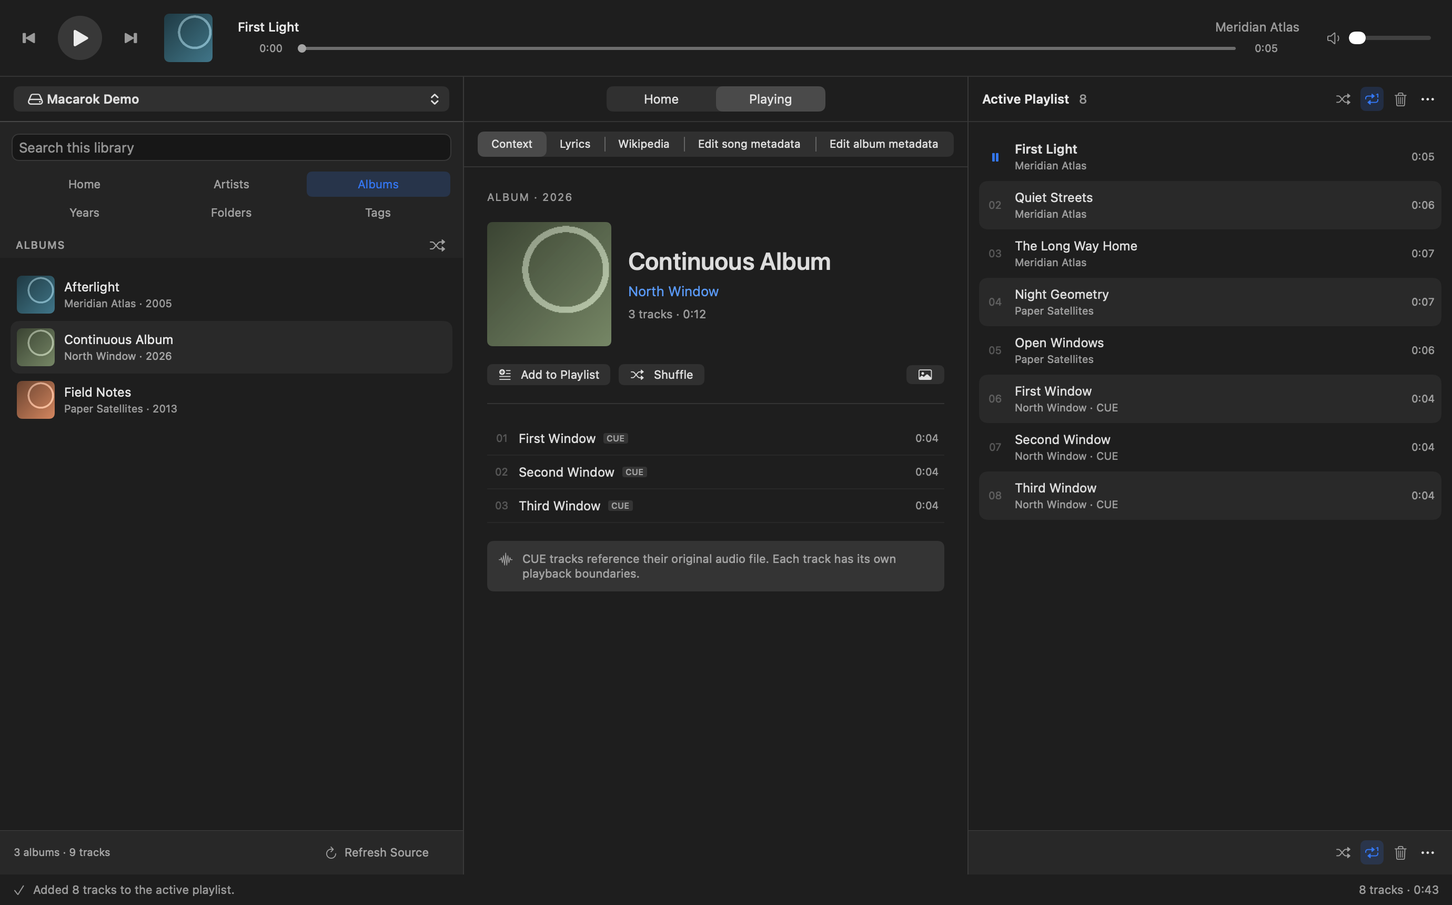
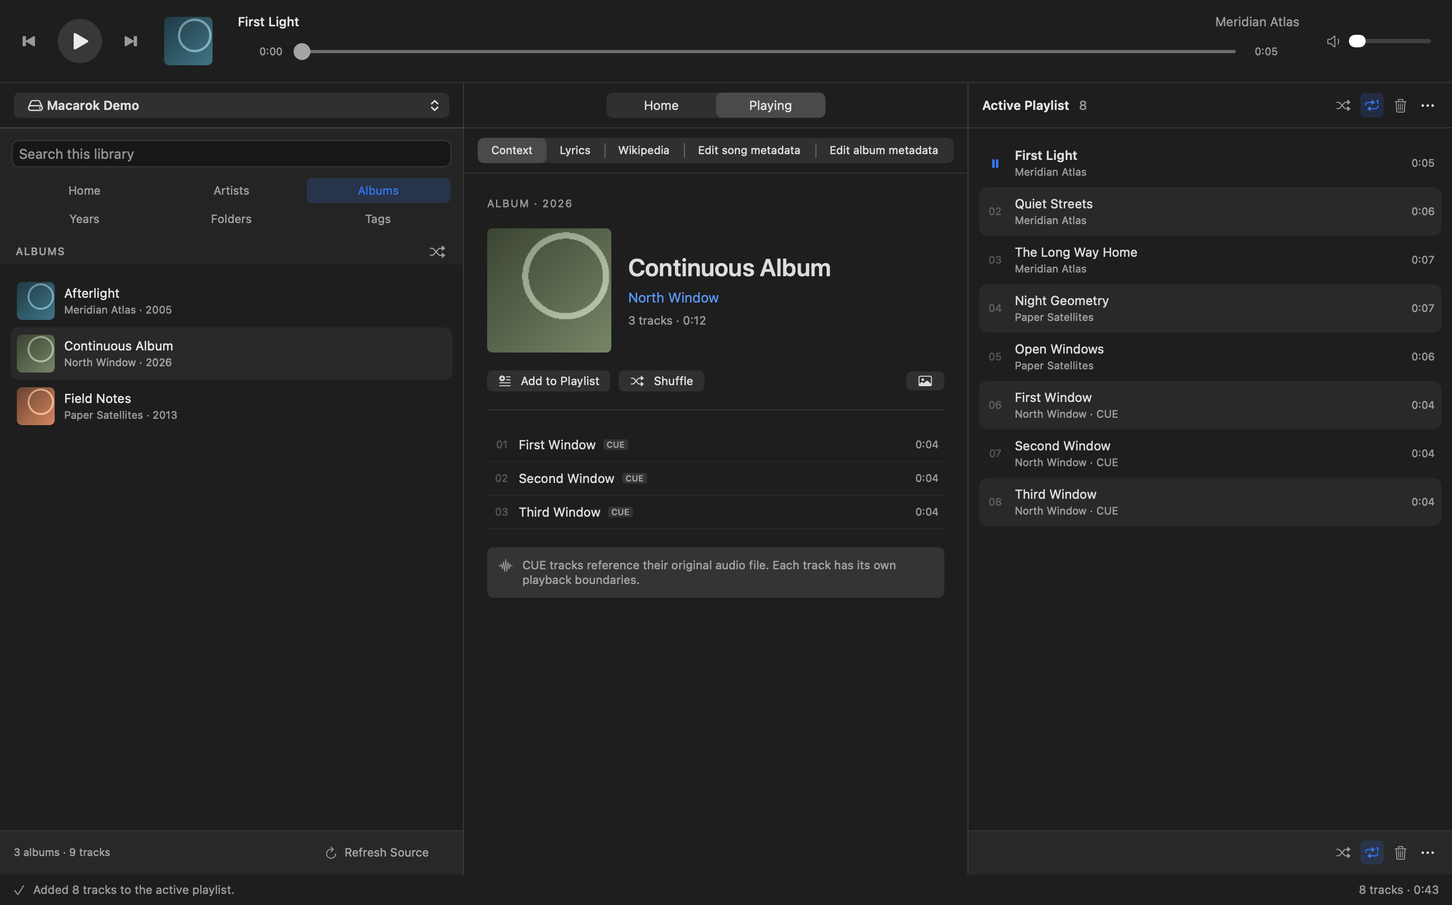
Use a 16-point timeline thumb with a 32-point input area

diff --git a/Tests/MacarokAppTests/PlaybackTimelineRoutingTests.swift b/Tests/MacarokAppTests/PlaybackTimelineRoutingTests.swift
@@ -1,0 +1,212 @@
+import AppKit
+import MacarokCore
+import SwiftUI
+import XCTest
+@testable import MacarokApp
+
+/// Resolves native event receivers through the real SwiftUI transport hierarchy, without choosing
+/// TimelineSlider directly or forcing enabled state. Hidden NSWindows suppress sendEvent dispatch.
+@MainActor
+final class PlaybackTimelineRoutingTests: XCTestCase {
+    func testFullTransportRoutesClicksAndBothDragDirectionsForDecodedLocalAndStreamAudio() async throws {
+        _ = NSApplication.shared
+        for backend in [Backend.local, .stream] {
+            let fixture = try Fixture(backend: backend)
+            defer { fixture.stop() }
+            try await eventually { fixture.model.player.state == .playing && fixture.model.player.isSeekable }
+            for paused in [false, true] {
+                if paused {
+                    fixture.model.pausePlayback()
+                    try await eventually { fixture.model.player.state == .paused }
+                }
+                for scheme in [ColorScheme.light, .dark] {
+                    let host = Host(model: fixture.model, scheme: scheme)
+                    defer { host.close() }
+                    try await host.settle()
+                    let slider = try XCTUnwrap(findSlider(in: host.hosting))
+                    XCTAssertTrue(fixture.model.player.isSeekable)
+                    XCTAssertTrue(slider.isEnabled, "The full view must derive enabled state from a decoded, seekable engine.")
+                    XCTAssertEqual(slider.bounds.height, 32, accuracy: 0.01)
+                    for fraction in [CGFloat(0.1), 0.5, 0.9] {
+                        for verticalOffset in [CGFloat(-15), 0, 15] {
+                            try host.assertRouted(to: slider, at: NSPoint(x: slider.playbackTrackRect.minX + slider.playbackTrackRect.width * fraction,
+                                                                        y: slider.playbackTrackRect.midY + verticalOffset))
+                        }
+                    }
+
+                    let revision = fixture.model.player.timeline.seekRevision
+                    try host.click(slider, fraction: 0.25, verticalOffset: 15)
+                    try await host.settle()
+                    XCTAssertGreaterThan(fixture.model.player.timeline.seekRevision, revision,
+                                         "A routed bar click must reach the real PlaybackSeekInteraction and engine seek callback.")
+                    XCTAssertEqual(fixture.model.player.position, 22.5, accuracy: 1)
+                    try host.drag(slider, to: 0.75, verticalOffset: -15)
+                    try await host.settle()
+                    XCTAssertEqual(fixture.model.player.position, 67.5, accuracy: 1)
+                    try host.drag(slider, to: 0.1, verticalOffset: 15)
+                    try await host.settle()
+                    XCTAssertEqual(fixture.model.player.position, 9, accuracy: 1)
+                    if paused { XCTAssertEqual(fixture.model.player.state, .paused) }
+                    XCTAssertFalse(host.window.isVisible)
+                }
+            }
+        }
+    }
+
+    func testFullTransportKeepsUnseekableStreamDisabledWithoutCommittingAClick() async throws {
+        _ = NSApplication.shared
+        let fixture = try Fixture(backend: .unseekableStream)
+        defer { fixture.stop() }
+        try await eventually { fixture.model.player.state == .playing && fixture.model.player.duration > 0 }
+        let host = Host(model: fixture.model, scheme: .dark)
+        defer { host.close() }
+        try await host.settle()
+        let slider = try XCTUnwrap(findSlider(in: host.hosting))
+        XCTAssertFalse(fixture.model.player.isSeekable)
+        XCTAssertFalse(slider.isEnabled)
+        let revision = fixture.model.player.timeline.seekRevision
+        try host.click(slider, fraction: 0.75, verticalOffset: 0)
+        try await host.settle()
+        XCTAssertEqual(fixture.model.player.timeline.seekRevision, revision)
+        XCTAssertLessThan(fixture.model.player.position, 10)
+    }
+
+    private func findSlider(in view: NSView) -> TimelineSlider? {
+        if let slider = view as? TimelineSlider, slider.accessibilityIdentifier() == "playbackTimeline" { return slider }
+        return view.subviews.lazy.compactMap { self.findSlider(in: $0) }.first
+    }
+
+    private func eventually(_ condition: () -> Bool) async throws {
+        for _ in 0..<600 {
+            if condition() { return }
+            try await Task.sleep(for: .milliseconds(20))
+        }
+        throw Failure.timeout
+    }
+
+    private enum Backend { case local, stream, unseekableStream }
+    private enum Failure: Error { case timeout, hit(String) }
+
+    @MainActor
+    private final class Host {
+        let hosting: NSHostingView<AnyView>
+        let window: NSWindow
+        private var eventTime = ProcessInfo.processInfo.systemUptime
+
+        init(model: AppModel, scheme: ColorScheme) {
+            hosting = NSHostingView(rootView: AnyView(TransportBar(model: model, player: model.player)
+                .frame(width: 1200, height: 90).environment(\.colorScheme, scheme)))
+            hosting.sizingOptions = []
+            hosting.frame = NSRect(x: 0, y: 0, width: 1200, height: 90)
+            window = NSWindow(contentRect: hosting.bounds, styleMask: [.borderless], backing: .buffered, defer: false)
+            window.isReleasedWhenClosed = false
+            window.appearance = NSAppearance(named: scheme == .light ? .aqua : .darkAqua)
+            window.contentView = hosting
+        }
+
+        func close() { window.contentView = nil; window.close() }
+
+        func settle() async throws {
+            for _ in 0..<12 {
+                hosting.layoutSubtreeIfNeeded()
+                await Task.yield()
+                try await Task.sleep(for: .milliseconds(10))
+            }
+        }
+
+        @discardableResult
+        func assertRouted(to slider: TimelineSlider, at point: NSPoint) throws -> NSView {
+            let windowPoint = slider.convert(point, to: nil)
+            let parentPoint = hosting.superview?.convert(windowPoint, from: nil) ?? windowPoint
+            let hit = hosting.hitTest(parentPoint)
+            guard let hit, hit === slider || hit.isDescendant(of: slider) else {
+                throw Failure.hit("Transport hit \(hit.map { String(reflecting: type(of: $0)) } ?? "nil") instead of timeline at \(point); slider frame \(slider.frame), bounds \(slider.bounds), enabled \(slider.isEnabled)")
+            }
+            return hit
+        }
+
+        func click(_ slider: TimelineSlider, fraction: CGFloat, verticalOffset: CGFloat) throws {
+            eventTime = ProcessInfo.processInfo.systemUptime
+            let point = NSPoint(x: slider.playbackTrackRect.minX + slider.playbackTrackRect.width * fraction,
+                                y: slider.playbackTrackRect.midY + verticalOffset)
+            let receiver = try assertRouted(to: slider, at: point)
+            let down = try event(.leftMouseDown, slider: slider, point: point, number: 1)
+            let up = try event(.leftMouseUp, slider: slider, point: point, number: 2)
+            if slider.isEnabled {
+                window.postEvent(up, atStart: false)
+                receiver.mouseDown(with: down)
+            } else {
+                receiver.mouseDown(with: down); receiver.mouseUp(with: up)
+            }
+            drainMouseEvents()
+        }
+
+        func drag(_ slider: TimelineSlider, to fraction: CGFloat, verticalOffset: CGFloat) throws {
+            eventTime = ProcessInfo.processInfo.systemUptime
+            let start = NSPoint(x: slider.playbackThumbRect.midX, y: slider.playbackThumbRect.midY)
+            let end = NSPoint(x: slider.playbackTrackRect.minX + slider.playbackTrackRect.width * fraction,
+                              y: slider.playbackTrackRect.midY + verticalOffset)
+            let receiver = try assertRouted(to: slider, at: start)
+            try assertRouted(to: slider, at: end)
+            let middle = NSPoint(x: (start.x + end.x) / 2, y: slider.playbackTrackRect.midY)
+            window.postEvent(try event(.leftMouseDragged, slider: slider, point: middle, number: 2), atStart: false)
+            window.postEvent(try event(.leftMouseUp, slider: slider, point: end, number: 3), atStart: false)
+            receiver.mouseDown(with: try event(.leftMouseDown, slider: slider, point: start, number: 1))
+            drainMouseEvents()
+        }
+
+        private func event(_ type: NSEvent.EventType, slider: TimelineSlider, point: NSPoint, number: Int) throws -> NSEvent {
+            try XCTUnwrap(NSEvent.mouseEvent(with: type, location: slider.convert(point, to: nil), modifierFlags: [],
+                timestamp: eventTime + Double(number) / 1000, windowNumber: window.windowNumber, context: nil, eventNumber: number,
+                clickCount: 1, pressure: type == .leftMouseUp ? 0 : 1))
+        }
+
+        private func drainMouseEvents() {
+            for _ in 0..<10 {
+                guard window.nextEvent(matching: [.leftMouseDragged, .leftMouseUp], until: Date(),
+                                       inMode: .eventTracking, dequeue: true) != nil else { break }
+            }
+        }
+    }
+
+    @MainActor
+    private final class Fixture {
+        let directory: URL
+        let model: AppModel
+
+        init(backend: Backend) throws {
+            directory = FileManager.default.temporaryDirectory.appendingPathComponent("MacarokRoutedTimeline-\(UUID())")
+            try FileManager.default.createDirectory(at: directory, withIntermediateDirectories: true)
+            let file = directory.appendingPathComponent("timeline.wav")
+            try Self.wave().write(to: file)
+            var preferences = AppPreferences(); preferences.volume = 0
+            model = AppModel(preferences: preferences, registerSystemControls: false)
+            let source = SourceRecord(id: "timeline-routing", kind: backend == .local ? .local : .podcasts,
+                                      name: "Timeline Routing", location: directory.absoluteString)
+            let track = TrackRecord(id: "timeline-routing-track", sourceID: source.id, title: "Timeline Routing",
+                                    artist: "Macarok", album: "Input Tests", duration: 90, fileURL: file.absoluteString)
+            model.sources = [source]
+            model.queue = [QueueItem(track: track)]; model.currentQueueID = model.queue[0].id
+            if backend == .local { model.player.load(url: file, durationHint: 90) }
+            else {
+                let stream = try XCTUnwrap(InputStream(url: file))
+                model.player.load(stream: stream, durationHint: 90, supportsSeeking: { backend == .stream })
+            }
+        }
+
+        func stop() { model.stopPlayback(clearCurrent: true); try? FileManager.default.removeItem(at: directory) }
+
+        private static func wave() -> Data {
+            let sampleRate = 8_000, size = 90 * sampleRate * 2
+            var data = Data("RIFF".utf8)
+            func word<T: FixedWidthInteger>(_ value: T) {
+                var little = value.littleEndian
+                withUnsafeBytes(of: &little) { data.append(contentsOf: $0) }
+            }
+            word(UInt32(size + 36)); data.append(Data("WAVEfmt ".utf8))
+            word(UInt32(16)); word(UInt16(1)); word(UInt16(1)); word(UInt32(sampleRate)); word(UInt32(sampleRate * 2))
+            word(UInt16(2)); word(UInt16(16)); data.append(Data("data".utf8)); word(UInt32(size)); data.append(Data(count: size))
+            return data
+        }
+    }
+}

diff --git a/Tests/MacarokAppTests/PlaybackTimelineBufferTests.swift b/Tests/MacarokAppTests/PlaybackTimelineBufferTests.swift
@@ -72,11 +72,11 @@ final class PlaybackTimelineBufferTests: XCTestCase {
     private func verifyColors<Content: View>(_ content: Content, scheme: ColorScheme,
                                              bufferedAt: CGFloat, unavailableAt: CGFloat?, name: String) async throws {
         _ = NSApplication.shared
-        let hosting = NSHostingView(rootView: content.frame(width: 420, height: 30)
+        let hosting = NSHostingView(rootView: content.frame(width: 420, height: 40)
             .background(Color(nsColor: .windowBackgroundColor))
             .environment(\.colorScheme, scheme).environment(\.layoutDirection, .leftToRight))
         hosting.sizingOptions = []
-        hosting.frame = NSRect(x: 0, y: 0, width: 420, height: 30)
+        hosting.frame = NSRect(x: 0, y: 0, width: 420, height: 40)
         let window = NSWindow(contentRect: hosting.bounds, styleMask: [.borderless], backing: .buffered, defer: true)
         window.isReleasedWhenClosed = false
         window.appearance = NSAppearance(named: scheme == .light ? .aqua : .darkAqua)
@@ -86,6 +86,7 @@ final class PlaybackTimelineBufferTests: XCTestCase {
         let slider = try XCTUnwrap(findSlider(in: hosting))
         XCTAssertEqual(slider.accessibilityIdentifier(), "playbackTimeline")
         XCTAssertEqual(slider.doubleValue, 25, accuracy: 0.01)
+        XCTAssertEqual(slider.bounds.height, 32, accuracy: 0.01)
         XCTAssertEqual(slider.effectiveAppearance.bestMatch(from: [.aqua, .darkAqua]),
                        scheme == .dark ? .darkAqua : .aqua,
                        "The native timeline must honor the app's selected appearance.")
@@ -130,7 +131,7 @@ final class PlaybackTimelineBufferTests: XCTestCase {
                 : background.brightnessComponent - pixel.brightnessComponent
             return contrast > 0.18
         }
-        // Read the painted shape itself: it must be one small filled circle, with the blue bar
+        // Read the painted shape itself: it must be one filled circle, with the blue bar
         // reaching its left edge. This also catches duplicate native knobs, hollow rings, and a
         // blue endpoint that uses a different width from the native slider's knob travel.
         let reach = Int(12 * scale), axis = max(0, Int(scale / 4))
@@ -145,7 +146,7 @@ final class PlaybackTimelineBufferTests: XCTestCase {
         let paintedWidth = CGFloat(right - left + 1) / scale
         let paintedHeight = CGFloat(bottom - top + 1) / scale
         XCTAssertEqual(paintedWidth, paintedHeight, accuracy: 1.5, "The thumb must be circular, including disabled timelines.")
-        XCTAssertEqual(paintedHeight, 8, accuracy: 1.5, "The thumb must remain a compact circle rather than the full tracking rectangle.")
+        XCTAssertEqual(paintedHeight, 16, accuracy: 1.5, "The selected thumb diameter must be rendered in both appearances.")
         XCTAssertEqual(CGFloat(top + bottom) / 2, CGFloat(row), accuracy: scale)
         XCTAssertTrue(isThumbPixel(x: (left + right) / 2, y: (top + bottom) / 2), "The gray thumb must have a filled center.")
         let lastBlue = try XCTUnwrap((0..<bitmap.pixelsWide).last { x in

diff --git a/Sources/MacarokApp/PlaybackTimelineView.swift b/Sources/MacarokApp/PlaybackTimelineView.swift
@@ -4,6 +4,11 @@ import MacarokAudio
 import MacarokCore
 import SwiftUI
 
+enum PlaybackTimelineMetrics {
+    static let thumbDiameter: CGFloat = 16
+    static let interactionHeight: CGFloat = 32
+}
+
 /// Only the compact timeline observes playback position; surrounding panels observe state changes.
 struct PlaybackTimelineView: View {
     @Bindable var model: AppModel
@@ -117,7 +122,7 @@ struct BufferedTimelineSlider: NSViewRepresentable {
         slider.needsDisplay = true
     }
     func sizeThatFits(_ proposal: ProposedViewSize, nsView: TimelineSlider, context: Context) -> CGSize? {
-        CGSize(width: proposal.width ?? 200, height: 16)
+        CGSize(width: proposal.width ?? 200, height: PlaybackTimelineMetrics.interactionHeight)
     }
     static func dismantleNSView(_ slider: TimelineSlider, coordinator: Coordinator) { slider.stopPresentationUpdates() }
     final class Coordinator: NSObject {
@@ -158,6 +163,14 @@ final class TimelineSlider: NSSlider {
     var playbackThumbRect: NSRect { (cell as? TimelineSliderCell)?.playbackThumbRect ?? .zero }
 
     deinit { presentationTimer?.invalidate() }
+
+    override func hitTest(_ point: NSPoint) -> NSView? {
+        guard !isHidden, alphaValue > 0, let superview,
+              bounds.contains(convert(point, from: superview)) else { return nil }
+        // The whole native surface accepts clicks, including vertical breathing room around
+        // the thin painted bar. Mouse mapping itself remains constrained to the track's width.
+        return self
+    }
 
     func updatePlayback(position: Double, measuredPosition: Double? = nil, duration: Double, enabled: Bool,
                         playing: Bool, generation: UUID?, seekRevision: UInt64,
@@ -329,7 +342,9 @@ private final class TimelineSliderCell: NSSliderCell {
     var playbackTrackRect: NSRect { paintedBar(inside: barRect(flipped: controlView?.isFlipped ?? false)) }
     var playbackThumbRect: NSRect {
         let bar = playbackTrackRect
-        return NSRect(x: bar.minX + bar.width * fraction - 4, y: bar.midY - 4, width: 8, height: 8)
+        let diameter = PlaybackTimelineMetrics.thumbDiameter
+        return NSRect(x: bar.minX + bar.width * fraction - diameter / 2, y: bar.midY - diameter / 2,
+                      width: diameter, height: diameter)
     }
 
     override func drawKnob(_ knobRect: NSRect) {

diff --git a/Tests/MacarokAppTests/PlaybackTimelineTrackingTests.swift b/Tests/MacarokAppTests/PlaybackTimelineTrackingTests.swift
@@ -54,8 +54,10 @@ final class PlaybackTimelineTrackingTests: XCTestCase {
                     let native = cell.knobRect(flipped: fixture.slider.isFlipped)
                     let visible = fixture.slider.playbackThumbRect
                     XCTAssertEqual(visible.midX, native.midX, accuracy: 0.5)
-                    XCTAssertTrue(native.insetBy(dx: -0.5, dy: -0.5).contains(visible),
-                                  "A drawn thumb must remain inside the native accessible/input hit area.")
+                    XCTAssertEqual(visible.width, 16)
+                    XCTAssertEqual(visible.height, 16)
+                    XCTAssertTrue(fixture.slider.bounds.contains(visible),
+                                  "A drawn thumb must remain inside the expanded native input surface.")
                 }
             }
         }
@@ -149,10 +151,10 @@ final class PlaybackTimelineTrackingTests: XCTestCase {
     }
 
     private func host(_ slider: TimelineSlider, width: CGFloat) -> NSWindow {
-        let window = NSWindow(contentRect: NSRect(x: 0, y: 0, width: width, height: 16),
+        let window = NSWindow(contentRect: NSRect(x: 0, y: 0, width: width, height: PlaybackTimelineMetrics.interactionHeight),
                               styleMask: [.borderless], backing: .buffered, defer: false)
         window.isReleasedWhenClosed = false
-        slider.frame = NSRect(x: 0, y: 0, width: width, height: 16)
+        slider.frame = NSRect(x: 0, y: 0, width: width, height: PlaybackTimelineMetrics.interactionHeight)
         window.contentView?.addSubview(slider)
         window.contentView?.layoutSubtreeIfNeeded()
         return window

diff --git a/docs/TESTING.md b/docs/TESTING.md
@@ -34,7 +34,7 @@ The menu-tracking regression plays a silent WAV through real VLC while pumping o
 
 `PanelFooterGeometryTests` checks matching 42-point library/playlist rows, compact-width thresholds, refresh/reconnect/stop transitions, and equal footer contrast distinct from the global status bar in Light/Dark.
 
-`PlaybackTimelineSmoothingTests` uses injected sample times to verify bounded cell-only interpolation, immediate seek/pause/input updates, occurrence guards, and unchanged native/accessibility values; timeline pixel tests check the small filled thumb and aligned blue endpoint. `PlaybackTimelineTrackingTests` also holds a drag open across stale clock/view writes and verify exact final endpoints, cancellation, and authoritative values after an external seek.
+`PlaybackTimelineSmoothingTests` uses injected sample times to verify bounded cell-only interpolation, immediate seek/pause/input updates, occurrence guards, and unchanged native/accessibility values; timeline pixel tests check the 16-point filled thumb, 32-point input height, and aligned blue endpoint. `PlaybackTimelineTrackingTests` also holds a drag open across stale clock/view writes and verifies exact final endpoints, cancellation, and authoritative values after an external seek. `PlaybackTimelineRoutingTests` hosts the complete TransportBar with decoded local and stream-backed media. It resolves the actual event receiver through NSHostingView hit testing, including points 15 points above/below the bar, then exercises the real interaction and engine callbacks for clicks and both drag directions in Light/Dark while paused/playing. A separate case preserves the disabled gate for genuinely unseekable media. The hidden test window suppresses NSWindow.sendEvent; events enter the receiver resolved by the real host, rather than selecting TimelineSlider directly.
 
 `CenterNavigationTests` covers retained Home filters and Context tabs, playback-following behavior, visible editor and artwork pins, retained inactive drafts, direct song/album editor target inheritance, manual inspection across ordinary mode changes, late editor completion, and merging drafts without replacing newer artwork or history. `ScrobblingSettingsAlignmentTests` checks the real credential text fields in the grouped macOS Form in both appearances, using injected fake credentials without Keychain or network access.
 

diff --git a/docs/PLAYBACK-PERFORMANCE.md b/docs/PLAYBACK-PERFORMANCE.md
@@ -16,7 +16,7 @@ A shared `VLCLibrary` avoids constructing a libVLC context for every track. Each
 
 `PlaybackTimeline` owns position, duration, seekability, and buffering publications. Equality guards suppress duplicate values.
 
-The native seek cell interpolates only toward received positions for at most 200 milliseconds, sharing one geometry for its filled thumb and played bar. It never predicts future playback time or publishes animation frames through the model. Pausing, buffering, seeking, dragging, changing occurrences, and Reduce Motion cancel that presentation interpolation. During a native mouse drag, the control owns its value and range so queued clock/view updates cannot reset the gesture. Release commits the captured native endpoint once; an external seek, replacement, or loss of seekability cancels the old draft.
+The seek control draws a 16-point filled thumb inside a full-width, 32-point-high native input surface. Visual thumb size does not limit click targets. The native seek cell interpolates only toward received positions for at most 200 milliseconds, sharing one geometry for its filled thumb and played bar. It never predicts future playback time or publishes animation frames through the model. Pausing, buffering, seeking, dragging, changing occurrences, and Reduce Motion cancel that presentation interpolation. During a native mouse drag, the control owns its value and range so queued clock/view updates cannot reset the gesture. Release commits the captured native endpoint once; an external seek, replacement, or loss of seekability cancels the old draft.
 
 Only the compact seek control, the visible menu-bar progress row, and a small synchronized-lyrics observer sample this clock. The lyric stack updates when the active line changes; its timer-driven observer does not rebuild the stack on every position sample. The buffer sampler retains its publisher in SwiftUI state. Playlist and radio panels observe playback state. Queue-entry lookup and source-kind lookup use indexes, while each metadata batch assigns the queue once and retains its UUIDs and selection.
 

diff --git a/docs/PRODUCT.md b/docs/PRODUCT.md
@@ -52,7 +52,7 @@ Podcast discovery offers Podcast Index by default and an Apple Podcasts selector
 
 Podcast streaming retains a bounded RAM buffer; durable episode files require Download Episode. Completed downloads stay until explicitly removed, and Reveal in Finder locates the source-specific file. The timeline layers gray unavailable data, white buffered/downloaded ranges, and blue playback progress. Byte-to-time coverage is approximate for variable bitrate, and unknown lengths have no percentage. See [podcast storage and cleanup](PODCASTS.md).
 
-Podcast episodes within a feed use publication dates in descending order throughout the library and search, with undated episodes last. The timeline uses one small filled circle, light gray in Dark and dark gray in Light, centered on the played-progress endpoint. Only the seek cell smooths movement toward confirmed playback samples, for at most 200 milliseconds; controls, lyrics, history, and scrobbling retain the measured audio time. The native volume control retains its existing visible border.
+Podcast episodes within a feed use publication dates in descending order throughout the library and search, with undated episodes last. The timeline uses a 16-point filled circle, light gray in Dark and dark gray in Light, centered on the played-progress endpoint. Its full-width 32-point-high native interaction area accepts direct clicks and dragging, including above and below the thin bar. Only the seek cell smooths movement toward confirmed playback samples, for at most 200 milliseconds; controls, lyrics, history, and scrobbling retain the measured audio time. The native volume control retains its existing visible border.
 
 Wikipedia context uses artist or album metadata for an English Wikipedia page or search result, with editable search and Open in Browser. Loading is limited to the visible pane, follows the central pinned/current target, and rejects obsolete navigation. The unmodified page retains its own attribution and licenses. See [Wikipedia context](WIKIPEDIA.md).
 
